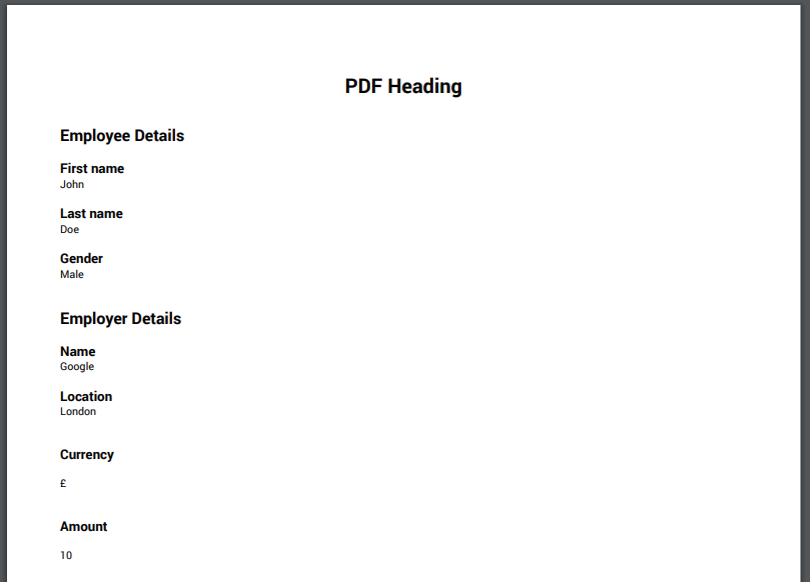
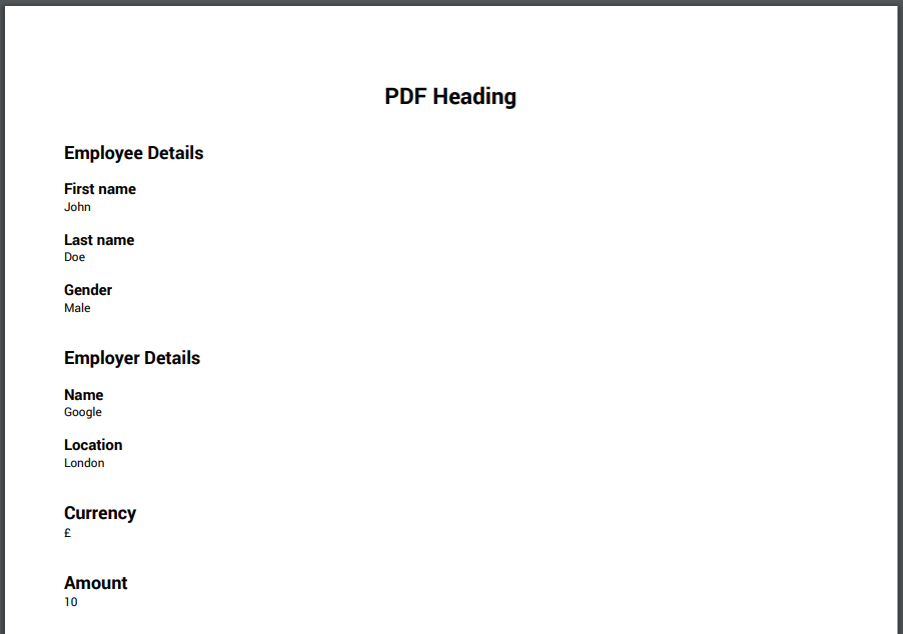
increased the fsize of string/number sections

diff --git a/dist/index.js b/dist/index.js
@@ -28,22 +28,25 @@ exports.generatePDF = generatePDF;
 var createDocDefinition = function (obj) {
     try {
         var docDefinition = {
-            content: [
-                { text: obj.heading, fontSize: 15, alignment: "center", bold: true, margin: [0, 10] }
-            ]
+            content: []
         };
+        // If heading property exists, use it
+        if (obj.heading) {
+            docDefinition.content.push({ text: obj.heading, fontSize: 15, alignment: "center", bold: true, margin: [0, 10] });
+        }
+        // Margins : [left, top, right, bottom] or [horizontal, vertical]
         for (var prop in obj) {
             if (typeof (obj[prop]) === "object") {
                 // Push the obj key as section heading 
                 docDefinition.content.push({ text: prop, fontSize: 12, bold: true, margin: [0, 10] });
-                // Push obj values as section contents
+                // Push obj 'value' as sub-section contents
                 for (var elem in obj[prop]) {
                     docDefinition.content.push({ text: elem, fontSize: 10, bold: true }, { text: obj[prop][elem], fontSize: 8, margin: [0, 0, 0, 10] });
                 }
             }
             else if (typeof (obj[prop]) === "string" || typeof (obj[prop]) === "number") {
                 if (prop !== "heading") {
-                    docDefinition.content.push({ text: prop, fontSize: 10, bold: true, margin: [0, 10] }, { text: obj[prop], fontSize: 8, margin: [0, 0, 0, 10] });
+                    docDefinition.content.push({ text: prop, fontSize: 12, bold: true, margin: [0, 10, 0, 0] }, { text: obj[prop], fontSize: 8, margin: [0, 0, 0, 10] });
                 }
             }
         }

diff --git a/lib/index.ts b/lib/index.ts
@@ -33,11 +33,17 @@ const createDocDefinition = (obj: any) => {
   try {
 
     let docDefinition: any = {
-      content: [
-        { text: obj.heading, fontSize: 15, alignment: "center", bold: true, margin: [0, 10] }
-      ]
+      content: []
     };
 
+    // If heading property exists, use it
+    if(obj.heading) {
+      docDefinition.content.push(
+        { text: obj.heading, fontSize: 15, alignment: "center", bold: true, margin: [0, 10] }
+      )
+    }
+
+    // Margins : [left, top, right, bottom] or [horizontal, vertical]
     for(const prop in obj) {
       if (typeof(obj[prop]) === "object") {
         // Push the obj key as section heading 
@@ -45,7 +51,7 @@ const createDocDefinition = (obj: any) => {
           { text: prop, fontSize: 12, bold: true, margin: [0, 10] }
         );
 
-        // Push obj values as section contents
+        // Push obj 'value' as sub-section contents
         for(const elem in obj[prop]) {
           docDefinition.content.push(
             { text: elem, fontSize: 10, bold: true },
@@ -55,7 +61,7 @@ const createDocDefinition = (obj: any) => {
       } else if (typeof(obj[prop]) === "string" || typeof(obj[prop]) === "number") {
         if(prop !== "heading") {
           docDefinition.content.push(
-            { text: prop, fontSize: 10, bold: true, margin: [0, 10] },
+            { text: prop, fontSize: 12, bold: true, margin: [0, 10, 0, 0] },
             { text: obj[prop], fontSize: 8, margin: [ 0, 0, 0, 10 ] }
           );
         }

diff --git a/README.md b/README.md
@@ -6,9 +6,6 @@ A server-side npm package to convert a JSON object to a PDF.
 [![npm version](https://badge.fury.io/js/obj2pdf.svg)](https://badge.fury.io/js/obj2pdf)
 
 <!-- TOC -->
-<!-- Generated PDF image -->
-<!-- How to use base64 data -->
-<!-- PDF specs like font sizes, allowed types, how to get 'heading' etc -->
 
 # Dependencies
 
@@ -53,15 +50,29 @@ yarn add obj2pdf
 
 Typescript:
 
-`import * as obj2pdf from 'obj2json'`
+```shell
+import * as obj2pdf from 'obj2json'
+```
 
 or 
 
 Javascript:
 
-`const obj2pdf = require('obj2json');`
+```shell
+const obj2pdf = require('obj2json');
+```
 
 2. Now, simply use the exposed `.generatePDF` function which takes in a valid JSON object as the parameter. It returns a base64 encoded string containing the PDF data.
+
+Provide a `heading` property if needed to generate a heading for the PDF which would be center aligned(see sample image below).
+
+Each property(except heading) in the JSON corresponds a "Section" in the generated PDF (for eg. Employee Details, Employer Details in the below JSON example).
+
+The value of each property(Section) in the JSON can be one of `object`, `string` or `number`.
+
+An `object` value would specify sub-sections within a section(works atmost with 1 level nesting).
+
+A `string`/`number` value prints it as-is below the Section(no sub-sections).
 
 ```javascript
 const inputJSON = {
@@ -109,3 +120,11 @@ This can then be used on client-side as the value to a `href` attribute of a HTM
 If you used the JSON above, the generated PDF data upon viewing should look like
 
 ![PDF Sample](https://github.com/NikhilNanjappa/obj2pdf/blob/master/lib/obj2pdf_sample.PNG "PDF Sample")
+
+# PDF Specs
+
+- Fonts being used are **Roboto regular/bold**
+- PDF heading is **15px**, **center aligned**, **bold**.
+- Section heading is **12px**, **bold**.
+- Sub-section heading is **10px**, **bold**.
+- Section/Sub-section value is **8px**.
